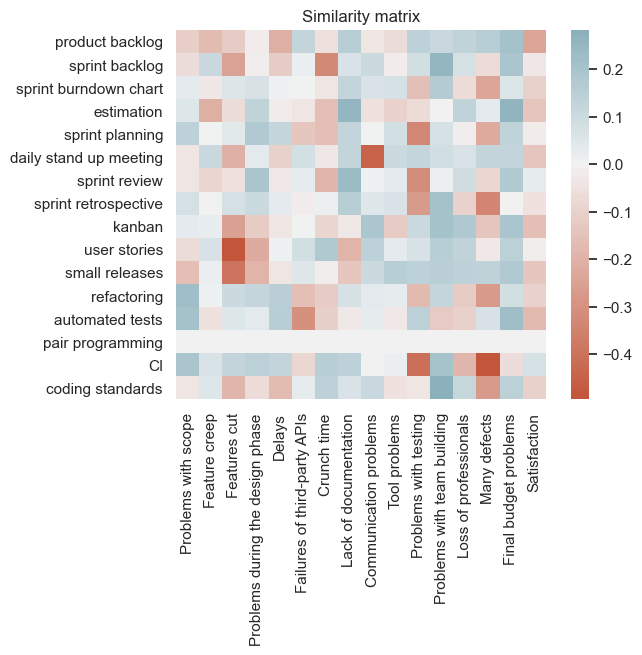
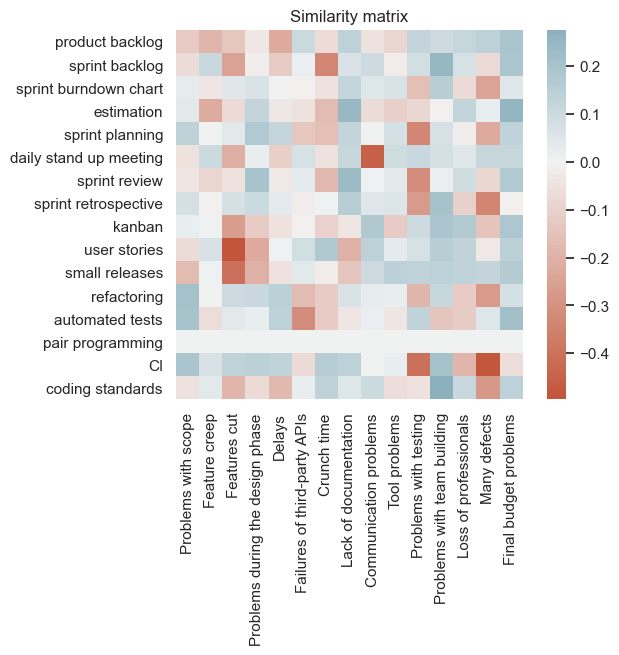
.

diff --git a/make_matrix_plot.py b/make_matrix_plot.py
@@ -15,8 +15,10 @@ def make_matrix_plot():
         for line in csv.DictReader(data):
             users.append(line)
 
-    satisfaction = eliminate_unknown_from_matrix([list(map(convert_string_to_int, get_column_values(users,
-                                        'Are you in general satisfied with the final resulting game??')))])[0]
+    max_frequency = 8
+    max_satisfaction = 5
+    satisfaction = list(map(lambda x: x/max_satisfaction * max_frequency, eliminate_unknown_from_matrix([list(map(convert_string_to_int, get_column_values(users,
+                                        'Are you in general satisfied with the final resulting game??')))])[0]))
     users = []
     with open(filename) as csv_file:
         csv_reader = csv.reader(csv_file, delimiter=',')
@@ -40,9 +42,9 @@ def make_matrix_plot():
     methodologies_matrix_num  = (get_freq_to_num_matrix(methodologies_matrix_words))
     problems_matrix_num = get_freq_to_num_matrix(problems_matrix_words)
 
-    #add satisfaction to the problems matrix
-    for respondent_problems_vector, respondent_satisfation in zip(problems_matrix_num, satisfaction):
-        respondent_problems_vector.append(respondent_satisfation)
+    # #add satisfaction to the problems matrix
+    # for respondent_problems_vector, respondent_satisfation in zip(problems_matrix_num, satisfaction):
+    #     respondent_problems_vector.append(-respondent_satisfation)
 
     similarity = np.array(sklearn.metrics.pairwise.cosine_similarity(np.array(methodologies_matrix_num).T, np.array(problems_matrix_num).T))
 
@@ -67,3 +69,28 @@ def make_matrix_plot():
     )
     plt.title("Similarity matrix")
     fig.savefig('background/similarity_matrix' + '.png', bbox_inches='tight')
+
+    similarity = np.array(sklearn.metrics.pairwise.cosine_similarity(np.array(methodologies_matrix_num).T,
+                                                                     np.array([satisfaction])))
+
+    # for i in range(similarity.shape[0]):
+    #     similarity[i] -= similarity[i].mean()
+    # similarity *= -1
+
+    sns.set()
+    fig, ax = plt.subplots()
+
+    y_axis_labels = methodologies_short_names
+
+    x_axis_labels = ['Satisfaction']
+    sns.heatmap(
+        similarity,
+        center=0,
+        cmap=sns.diverging_palette(20, 220, n=200),
+        square=True,
+        ax=ax,
+        xticklabels=x_axis_labels,
+        yticklabels=y_axis_labels
+    )
+    plt.title("Similarity matrix")
+    fig.savefig('background/similarity_matrix_satisfaction' + '.png', bbox_inches='tight')

diff --git a/makeInfoAboutGamePlots.py b/makeInfoAboutGamePlots.py
@@ -152,6 +152,8 @@ def make_info_about_game_plots():
 
     # distribution for each stage
 
+    edgecases = ['Art, style, and assets definition,', ', Art, style, and assets definition' ]
+
     first_stage_index = 33
     last_stage_index = 38
     stages = ['Initiation', 'Team building', 'Pre-production', 'Production', 'Testing', 'Release']
@@ -160,8 +162,15 @@ def make_info_about_game_plots():
         results = []
         column_values = get_column_nonempty_values(respondents, columns[i])
         for column_value in column_values:
-            for split_value in column_value.split(', '):
-                results.append(split_value)
+            processed_column_value = column_value
+            if edgecases[0] in column_value:
+                processed_column_value = processed_column_value.replace(edgecases[0], '')
+                results.append(edgecases[0][0:-1])
+            elif edgecases[1] in column_value:
+                processed_column_value = processed_column_value.replace(edgecases[1], '')
+                results.append(edgecases[1][1:])
+            for split_value in processed_column_value.split(', '):
+                    results.append(split_value)
         [labels, sizes] = count_by_values(results)
         sorted_zip = sorted(zip(labels, sizes), key=lambda x: x[1])
         labels = list(map(lambda x: x[0], sorted_zip))
@@ -176,4 +185,4 @@ def make_info_about_game_plots():
     labels = list(map(lambda x: x[0], sorted_zip))
     sizes = list(map(lambda x: round(x[1]), sorted_zip))
     make_horizontal_bar_chart(sizes, labels, 'infoAboutGame/stages/order',
-                              'Order of stages distribution' + ' (%)')
+                              'Order of stages distribution' + ' (number of people)')

diff --git a/utils.py b/utils.py
@@ -37,6 +37,7 @@ def get_column_nonempty_values(users, column):
             result.append(value)
     return result
 
+
 def get_column_values(users, column):
     result = []
     for user in users:

diff --git a/constants/problemsShortNames.py b/constants/problemsShortNames.py
@@ -14,5 +14,5 @@ problems_short_names = [
         'Loss of professionals',
         'Many defects',
         'Final budget problems',
-        'Satisfaction'
+        # 'Satisfaction'
     ]
